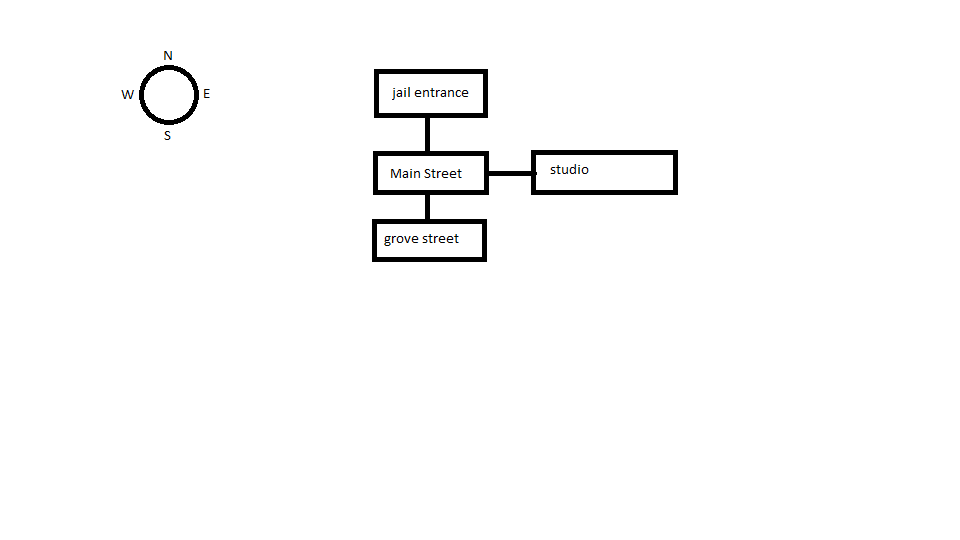
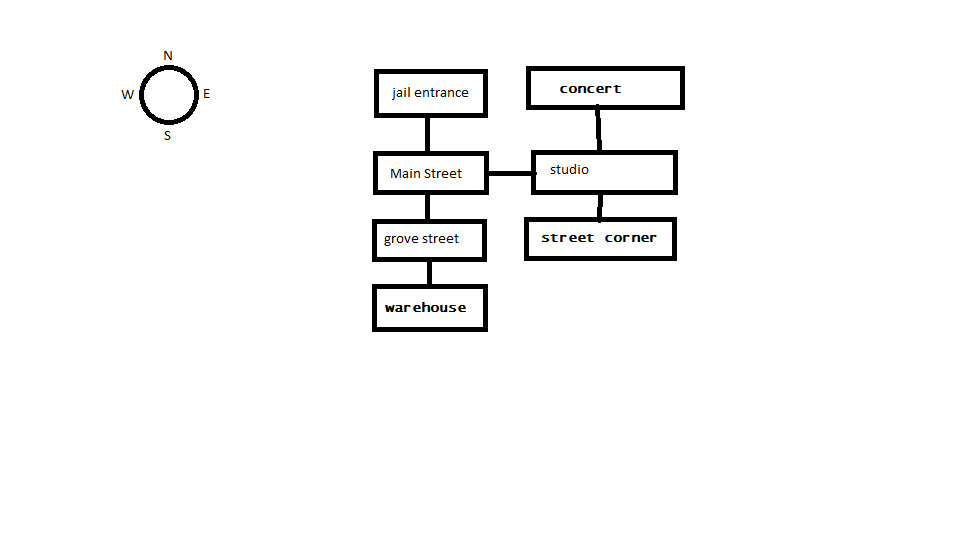
update directions

Changed region(s): [[0.5312, 0.3852, 0.7188, 0.5037], [0.5312, 0.1185, 0.7188, 0.2667], [0.375, 0.4741, 0.5312, 0.6222]]

diff --git a/roomsgit.py b/roomsgit.py
@@ -10,7 +10,7 @@ room_studio = {
 	"exits": {"east": "Warehouse", "south": "Street Corner", "north": "Concert"},
 	"items": [],
 	"award": item_hat
-	
+
 }
 
 room_warehouse = {
@@ -19,7 +19,7 @@ room_warehouse = {
 	"n": 4,
 	"description": "It's a dimly lit warehouse, the air is thick with smoke and excitement",
 	"rapper": "Kendrick Lamar",
-	"exits": {"west": "Studio"},
+	"exits": {"north": "Grove Street"},
 	"rapperbeat": False,
 	"items": [],
 	"award": item_dreadlocks
@@ -59,7 +59,7 @@ jail_entrance = {
 	"rapperbeat": False,
 	"rapper":"",
 
-	
+
 }
 
 main_street = {
@@ -71,7 +71,7 @@ main_street = {
 	"n":10,
 	"rapperbeat": False,
 	"rapper":"",
-	
+
 }
 
 grove_street = {
@@ -83,7 +83,7 @@ grove_street = {
 	"n":0,
 	"rapperbeat": False,
 	"rapper":"",
-	
+
 }
 
 
@@ -97,9 +97,3 @@ rooms = {
     "Main Street": main_street,
     "Jail Entrance":jail_entrance
 }
-
-
-
-
-
-
